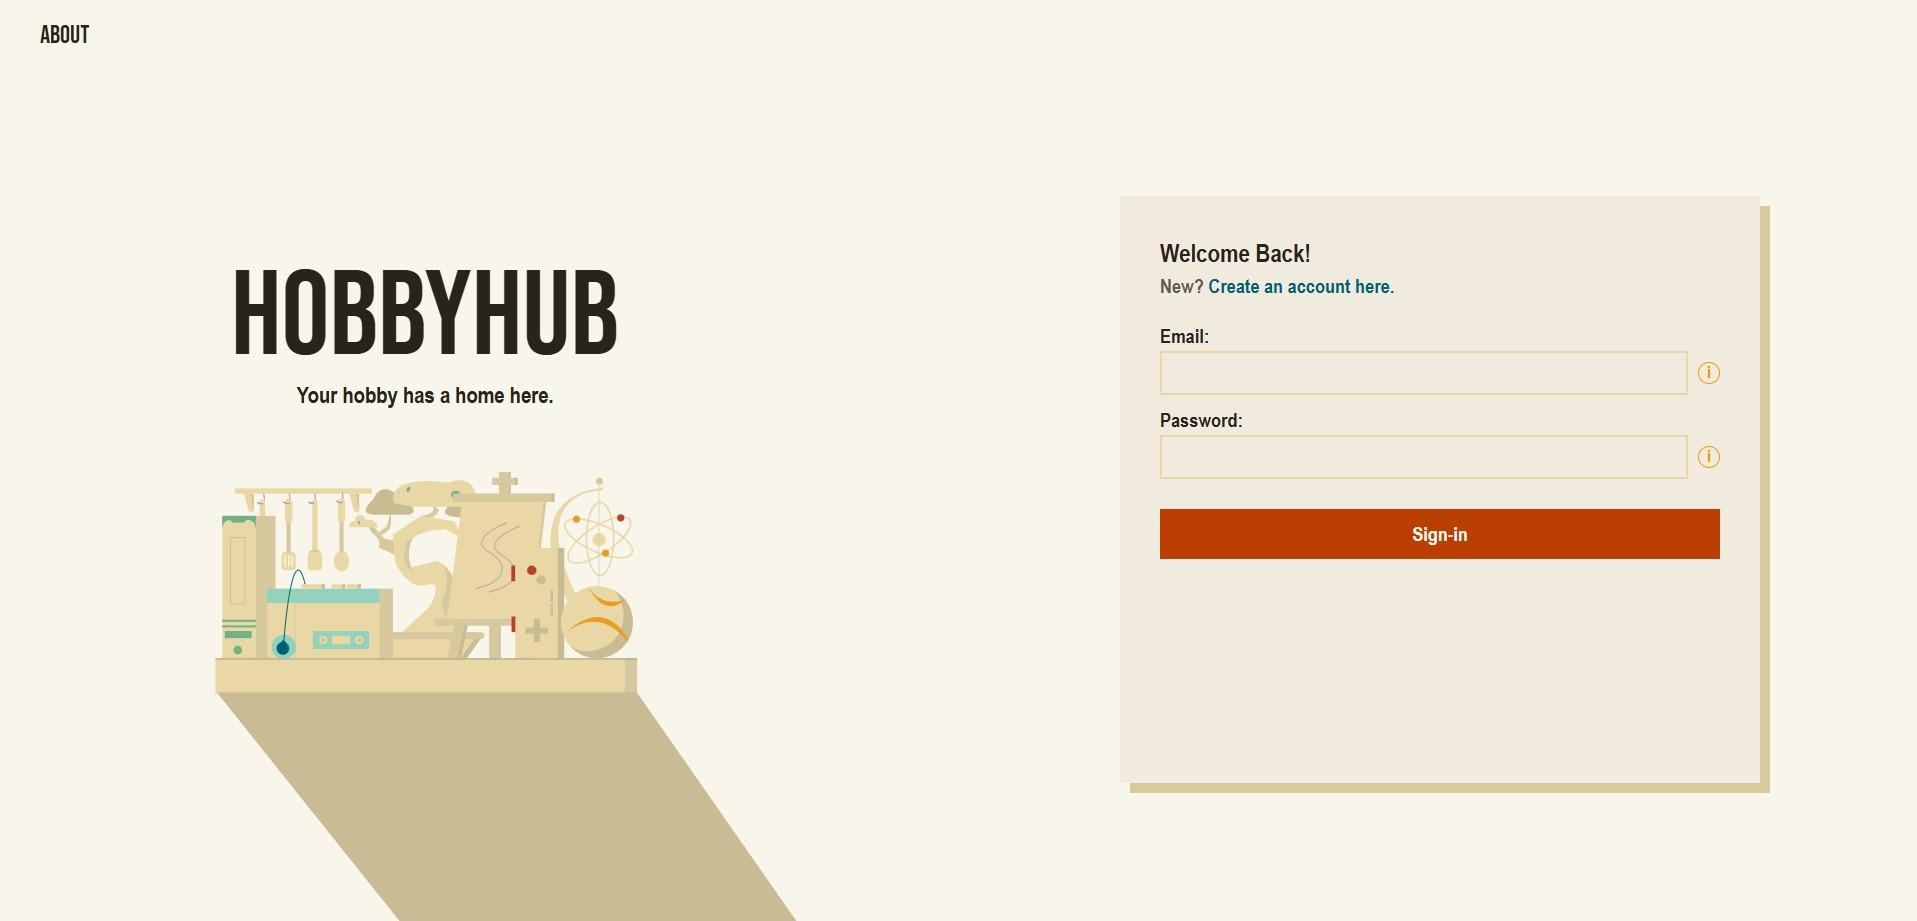
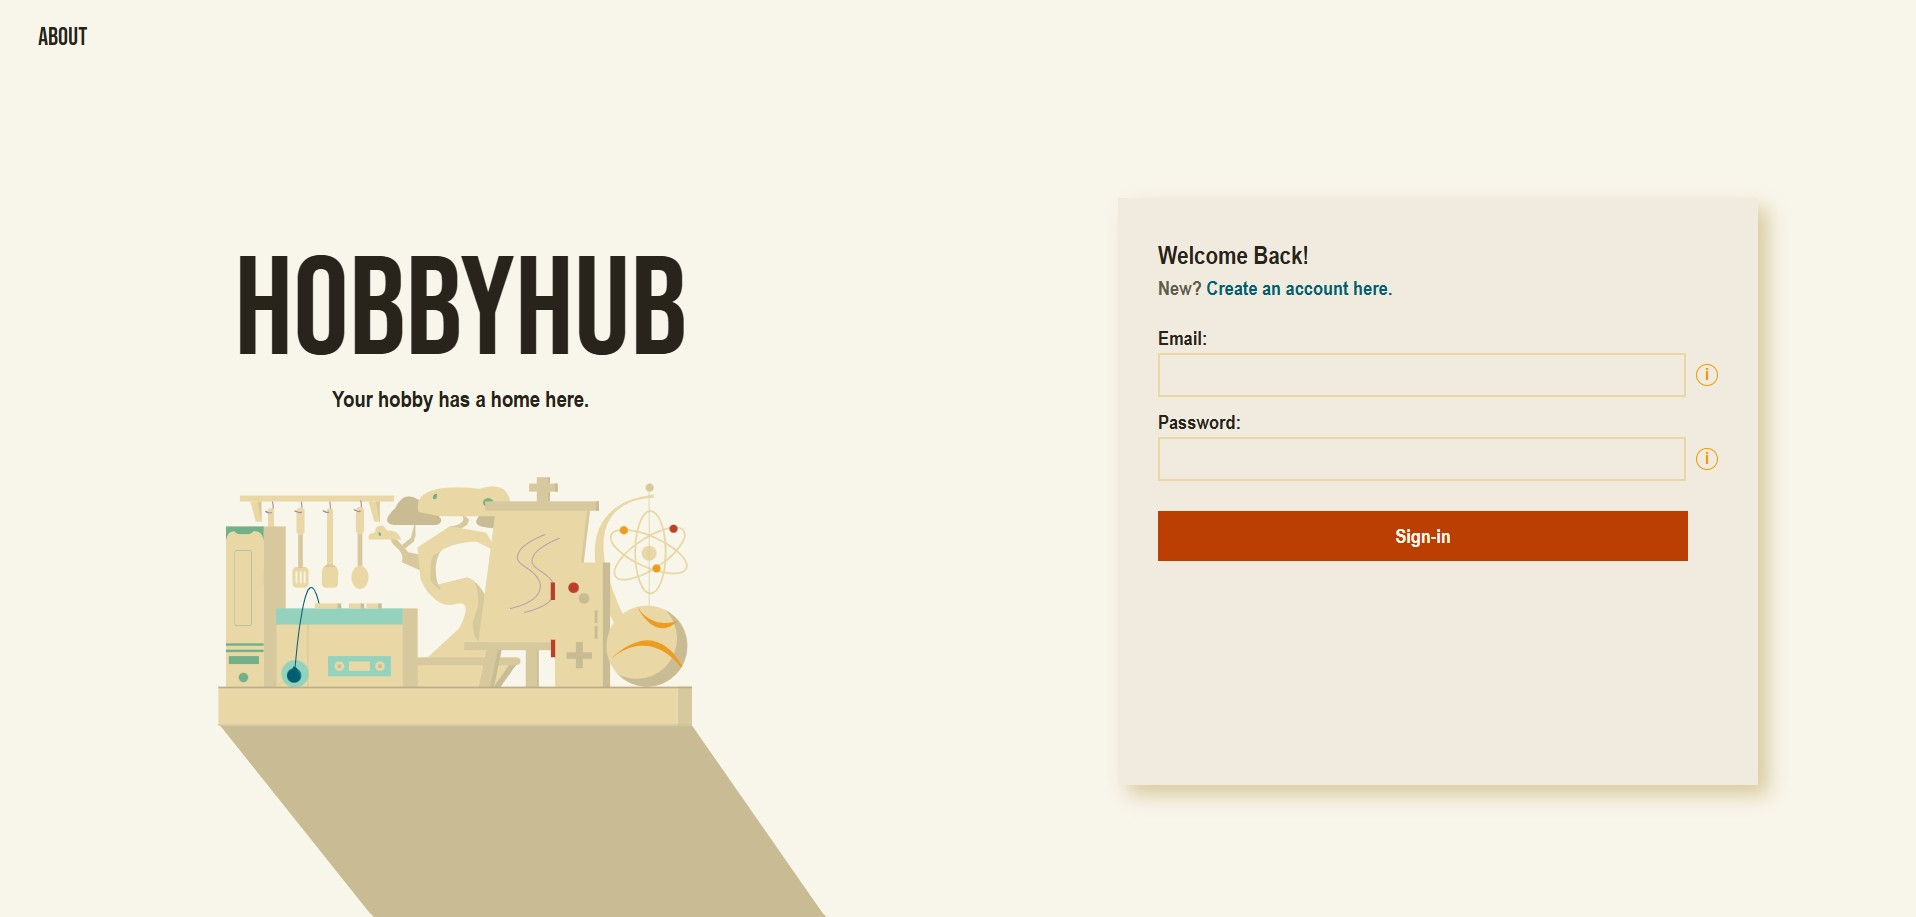
add images to readme

diff --git a/README.md b/README.md
@@ -42,3 +42,6 @@ Currently, the application is built using a decoupled, [three-tier architecture]
 - **Tailwind**
 
 </details>
+
+![login](/images/login.jpg.png)
+![register](/images/register.jpg.png)
